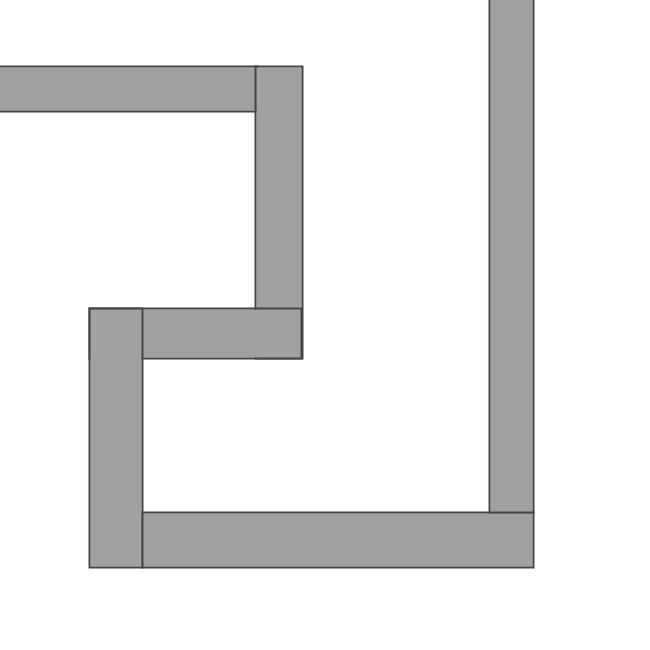
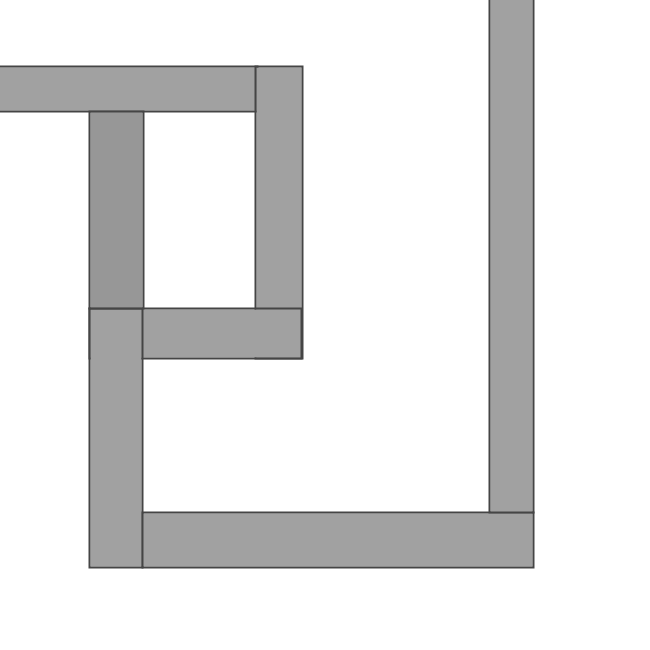
Allows enemies to take different paths

Changed region(s): [[0.1231, 0.1538, 0.2462, 0.4923]]

diff --git a/TDGame.Core/Game/Modules/Enemies/BaseEnemyModule.cs b/TDGame.Core/Game/Modules/Enemies/BaseEnemyModule.cs
@@ -10,7 +10,7 @@ namespace TDGame.Core.Game.Modules.Enemies
         public GameEngine Game { get; }
         public HashSet<Guid> EnemyOptions { get; }
         private Dictionary<int, List<Guid>> _enemyLevels = new Dictionary<int, List<Guid>>();
-        private Random _rnd = new Random();
+        internal Random _rnd = new Random();
         public BaseEnemyModule(GameEngine game)
         {
             Game = game;
@@ -41,16 +41,16 @@ namespace TDGame.Core.Game.Modules.Enemies
         {
             if (def.SlowingDuration > 0)
                 def.SlowingDuration -= passed.Milliseconds;
-            var target = Game.Map.WayPoints[enemy.WayPointID];
+            var target = Game.Map.Paths[enemy.PathID][enemy.WayPointID];
             if (MathHelpers.Distance(enemy, target) < 5)
             {
                 enemy.WayPointID++;
-                if (enemy.WayPointID >= Game.Map.WayPoints.Count)
+                if (enemy.WayPointID >= Game.Map.Paths[enemy.PathID].Count)
                 {
                     Game.DamagePlayer();
                     return true;
                 }
-                target = Game.Map.WayPoints[enemy.WayPointID];
+                target = Game.Map.Paths[enemy.PathID][enemy.WayPointID];
             }
             enemy.Angle = Game.GetAngle(target, enemy);
             var change = MathHelpers.GetPredictedLocation(enemy.Angle, def.GetSpeed(), Game.GameStyle.EnemySpeedMultiplier);

diff --git a/TDGame.Core/Game/Modules/Enemies/WaveEnemyModule.cs b/TDGame.Core/Game/Modules/Enemies/WaveEnemyModule.cs
@@ -35,8 +35,9 @@ namespace TDGame.Core.Game.Modules.Enemies
                     var enemy = new EnemyInstance(template, Game.Evolution);
                     if (enemy.ModuleInfo is WaveEnemyDefinition def2)
                     {
-                        enemy.X = Game.Map.WayPoints[0].X - enemy.Size / 2;
-                        enemy.Y = Game.Map.WayPoints[0].Y - enemy.Size / 2;
+                        enemy.PathID = _rnd.Next(0, Game.Map.Paths.Count);
+                        enemy.X = Game.Map.Paths[enemy.PathID][0].X - enemy.Size / 2;
+                        enemy.Y = Game.Map.Paths[enemy.PathID][0].Y - enemy.Size / 2;
                         def2.Group = new List<EnemyInstance>();
                         enemies.Add(enemy);
                     }

diff --git a/TDGame.Core/Game/Modules/Enemies/SingleEnemyModule.cs b/TDGame.Core/Game/Modules/Enemies/SingleEnemyModule.cs
@@ -29,8 +29,9 @@ namespace TDGame.Core.Game.Modules.Enemies
             var enemies = new List<EnemyInstance>();
             var template = ResourceManager.Enemies.GetResource(id);
             var enemy = new EnemyInstance(template, Game.Evolution);
-            enemy.X = Game.Map.WayPoints[0].X - enemy.Size / 2;
-            enemy.Y = Game.Map.WayPoints[0].Y - enemy.Size / 2;
+            enemy.PathID = _rnd.Next(0, Game.Map.Paths.Count);
+            enemy.X = Game.Map.Paths[enemy.PathID][0].X - enemy.Size / 2;
+            enemy.Y = Game.Map.Paths[enemy.PathID][0].Y - enemy.Size / 2;
             enemies.Add(enemy);
             return enemies;
         }

diff --git a/TDGame.Core/Game/Models/Entities/Enemies/EnemyInstance.cs b/TDGame.Core/Game/Models/Entities/Enemies/EnemyInstance.cs
@@ -9,6 +9,7 @@ namespace TDGame.Core.Game.Models.Entities.Enemies
         public Guid DefinitionID { get; set; }
         public float Health { get; set; }
         public IEnemyModule ModuleInfo { get; set; }
+        public int PathID { get; set; } = 0;
         public int WayPointID { get; set; } = 0;
 
         public EnemyInstance(Guid enemyDefinition, float evolution) : this(ResourceManager.Enemies.GetResource(enemyDefinition), evolution)

diff --git a/TDGame.Core/Game/Models/Maps/MapDefinition.cs b/TDGame.Core/Game/Models/Maps/MapDefinition.cs
@@ -5,7 +5,7 @@
         public Guid ID { get; set; }
         public string Name { get; set; }
         public string Description { get; set; }
-        public List<FloatPoint> WayPoints { get; set; }
+        public List<List<FloatPoint>> Paths { get; set; }
         public List<BlockedTile> BlockingTiles { get; set; }
         public int Width { get; set; }
         public int Height { get; set; }

diff --git a/README.md b/README.md
@@ -1,12 +1,12 @@
 # TDGame
 
 ## TODO List
-- [ ] Multipathed maps?
 - [ ] Encrypt user data
     - Just so that you cant just as easily give yourself buffs and stuff
     - Maybe only do this in release mode, since it will be a hassle while debugging
 - [ ] Improve the game integrity checker
     - Right now, it only rly checks IDs of turrets and enemy types
+- [X] Multipathed maps
 - [X] Passive turret
     - E.g. a turret that does not shoot but increases range of others. 
 - [X] Progressive turret and enemy unlocks
